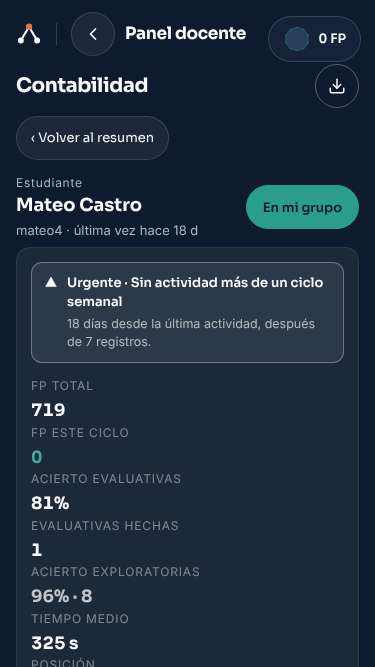
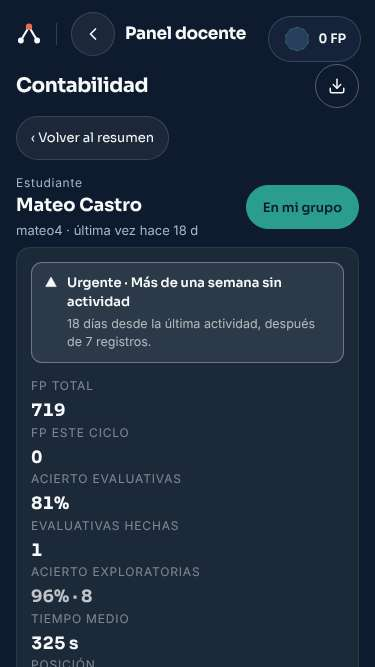
Panel docente: la alerta del estudiante con el motivo de textos.md, FP del ciclo en neutro y 0 toques bajo 44 px (condición de Shibukawa en #525)
Claude-Session: https://claude.ai/code/session_01QpJop5McxwEWg52bgBvPGN

Changed region(s): [[0.176, 0.3898, 0.88, 0.4798], [0.088, 0.6597, 0.1173, 0.7196]]

diff --git a/src/components/docente/DetalleEstudiante.jsx b/src/components/docente/DetalleEstudiante.jsx
@@ -4,6 +4,7 @@ import { NIVEL, alertasDe } from "../../docente/alertas.js";
 import { historialDe } from "../../docente/datos.js";
 import { nombreDeActividad } from "../../data/subjects.js";
 import MarcaNivel, { NIVEL_MARCA } from "./MarcaNivel.jsx";
+import { MOTIVO_CORTO } from "../../docente/panelV1.js";
 
 /*
  * ÍTEM 3 — El detalle que se abre DEBAJO de la fila, dentro de la misma fila.
@@ -99,7 +100,8 @@ export default function DetalleEstudiante({ e, subjectId, posicion }) {
             <p style={{ margin: 0, fontFamily: "Sora, sans-serif", fontSize: "13px", fontWeight: 600, color: FAE.text }}>
               {/* La palabra del nivel acompaña al color: el tono nunca va solo. */}
               <span style={{ color: COLOR_NIVEL[alerta.nivel] }}>{PALABRA_NIVEL[alerta.nivel]}</span>
-              {" · "}{alerta.titulo}
+              {/* El motivo de textos.md, el mismo de B2 (Shibukawa, #525): una regla, un nombre. alertas.js no cambia. */}
+              {" · "}{MOTIVO_CORTO[alerta.titulo] ?? alerta.titulo}
             </p>
             {alerta.detalle && (
               <p style={{ margin: "3px 0 0", fontSize: "12.5px", lineHeight: 1.5, color: "rgba(248,249,250,0.66)" }}>
@@ -114,7 +116,8 @@ export default function DetalleEstudiante({ e, subjectId, posicion }) {
         {/* ── Cifras clave. En móvil, rejilla 2×2 compacta. ── */}
         <div className="fae-det-cifras">
           <div><p style={rotulo}>FP TOTAL</p><p style={cifra}>{e.fp_total}</p></div>
-          <div><p style={rotulo}>FP ESTE CICLO</p><p style={{ ...cifra, color: "#3FA69A" }}>{e.fp_ciclo}</p></div>
+          {/* En neutro (Shibukawa, #525): en Contabilidad el teal es el debe. */}
+          <div><p style={rotulo}>FP ESTE CICLO</p><p style={{ ...cifra, color: FAE.text }}>{e.fp_ciclo}</p></div>
           <div>
             <p style={rotulo}>ACIERTO EVALUATIVAS</p>
             <p style={cifra}>
